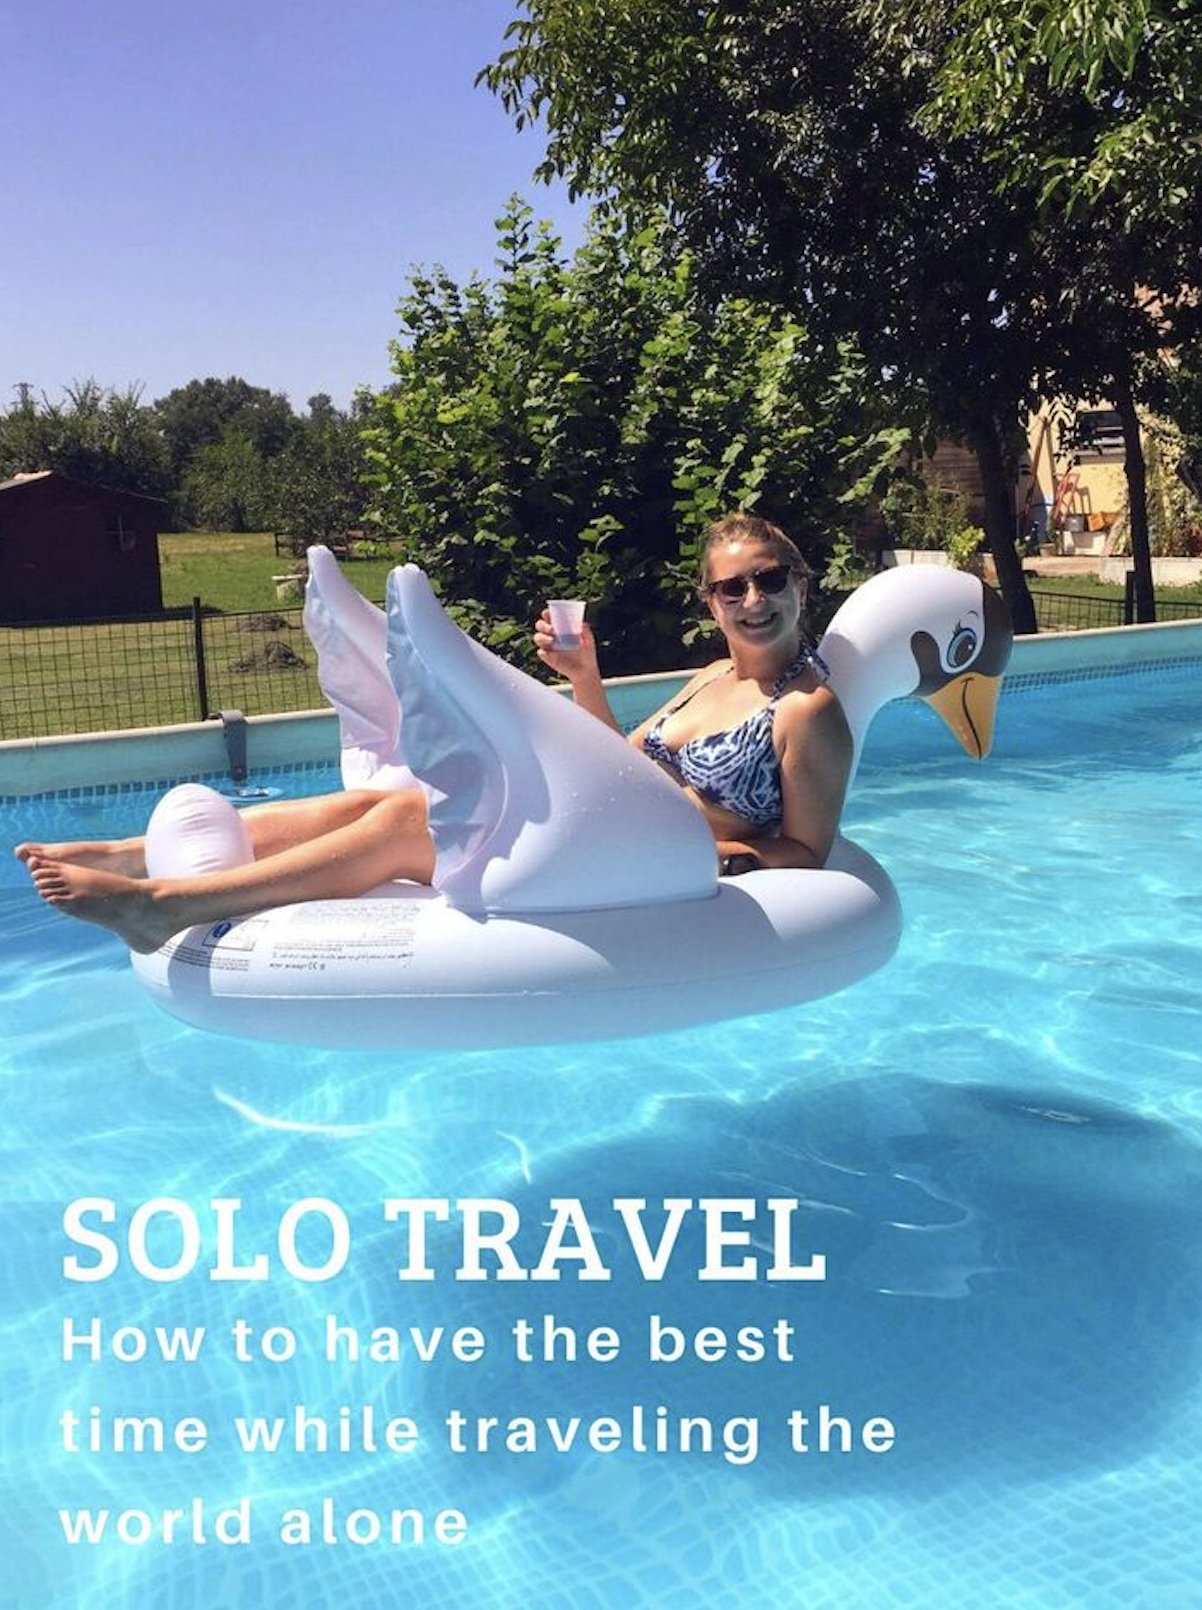
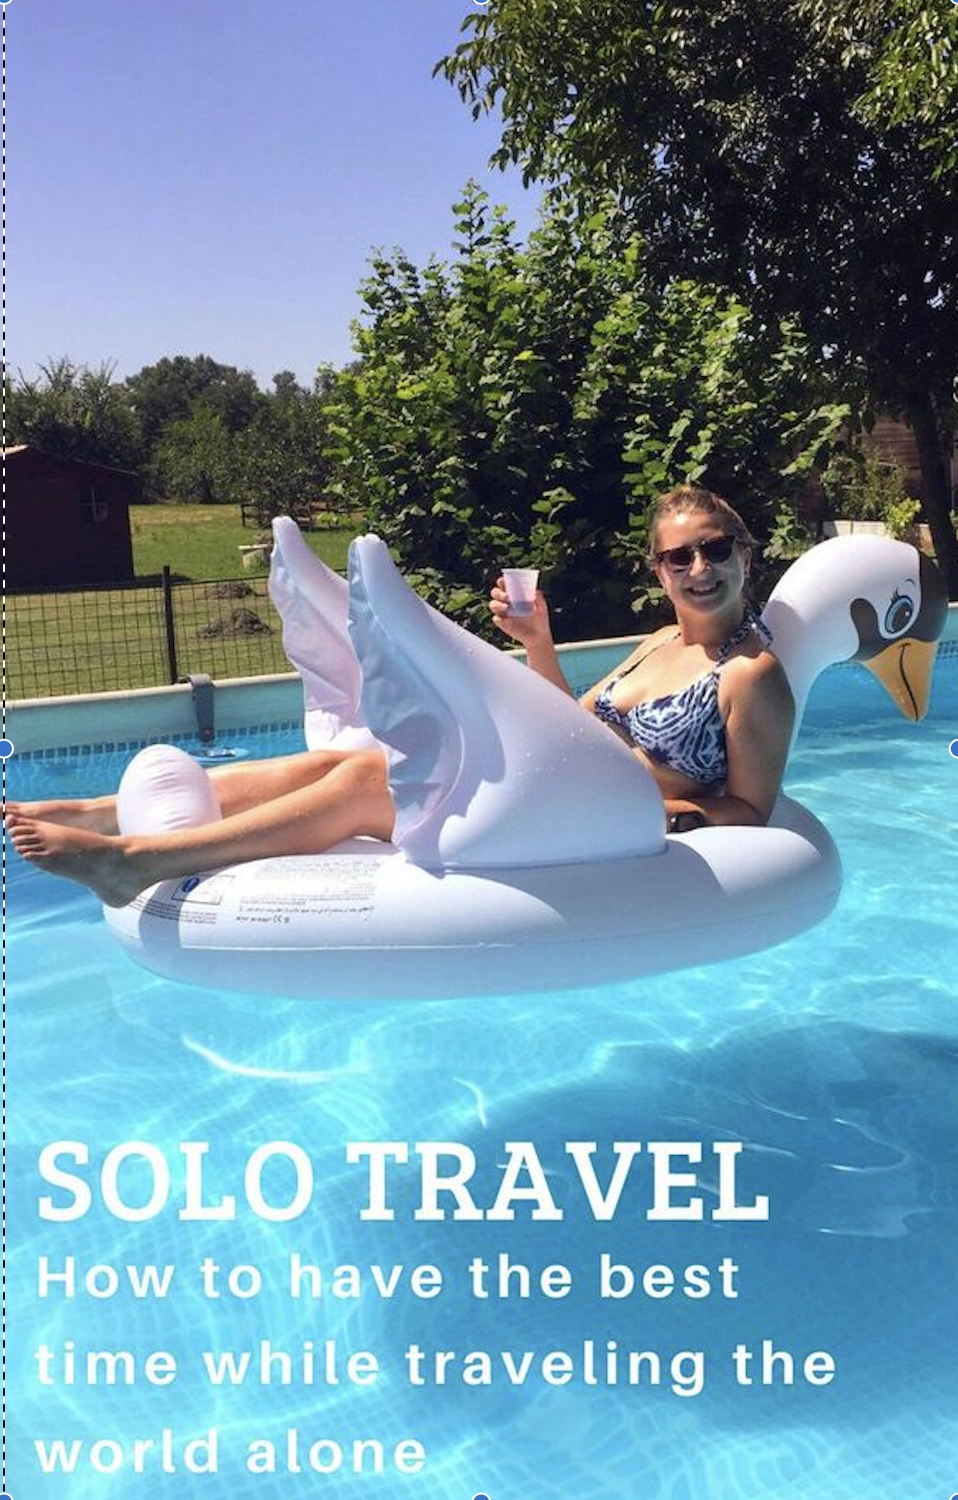
minor fixes

diff --git a/src/app/home/home.component.ts b/src/app/home/home.component.ts
@@ -8,6 +8,15 @@ import { Component, HostListener, OnInit } from '@angular/core';
 export class HomeComponent implements OnInit {
 
   categories: any[] = [
+
+    {
+      category: 'cruises',
+      src: 'assets/images/cruises.jpeg',
+      title: 'Cruises Trip'
+    },
+
+
+
     {
       category: 'family',
       src: 'assets/images/familytrip.jpeg',
@@ -28,15 +37,16 @@ export class HomeComponent implements OnInit {
       src: 'assets/images/roadtrip.jpeg',
       title: 'Road Trip'
     },
-    {
-      category: 'cruises',
-      src: 'assets/images/cruises.jpeg',
-      title: 'Cruises Trip'
-    },
+
     {
       category: 'cultural',
       src: 'assets/images/culturaltrip.jpeg',
       title: 'Cultural Trip'
+    },
+    {
+      category: 'solo',
+      src: 'assets/images/solotrip.jpeg',
+      title: ''
     },
 
   ]

diff --git a/src/app/home/home.component.css b/src/app/home/home.component.css
@@ -96,9 +96,7 @@ input:focus {
 }
 
 .card1 {
-  /* width: 5%; */
   margin-right: -61px;
-  /* height: 200px; */
   display: flex;
   align-items: flex-end;
   box-shadow: 0px 7px 10pxrgba (0, 0, 0, 0, 0.5);
@@ -114,6 +112,7 @@ input:focus {
   height: 300px;
   border-radius: 12px;
   cursor: pointer;
+  filter: drop-shadow(2px 4px 6px black);
 }
 
 .card1 .info {

diff --git a/src/app/home/home.component.html b/src/app/home/home.component.html
@@ -43,4 +43,16 @@
       </div>
     </div>
   </div>
+
+
+
+
+
+  <div style="border: 2px solid; height: 500px; margin-bottom: 23px;" class="row">
+
+  </div>
+
+
+
+
 </div>
